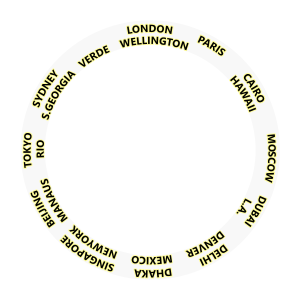
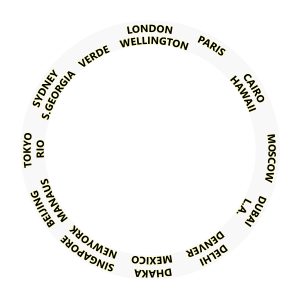
fix the city labels and update readme

diff --git a/README.md b/README.md
@@ -90,6 +90,6 @@ send me a email to ztbxxt@hotmail.com; or just add issues here.
 
 ## buy me a coffee
 
+Wish you enjoy this skin. If you want to contribute, you can help me update gadgets or make a donation:
 [爱发电](https://afdian.net/@ztbxxt)
-
 [Paypal](https://paypal.me/ztbxxt)
